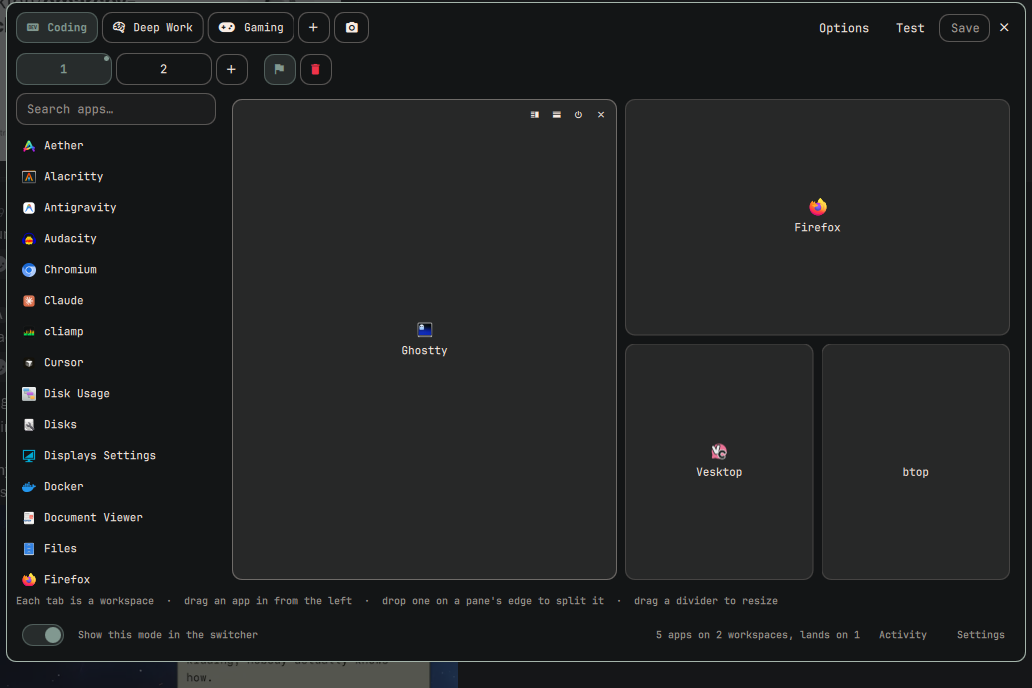
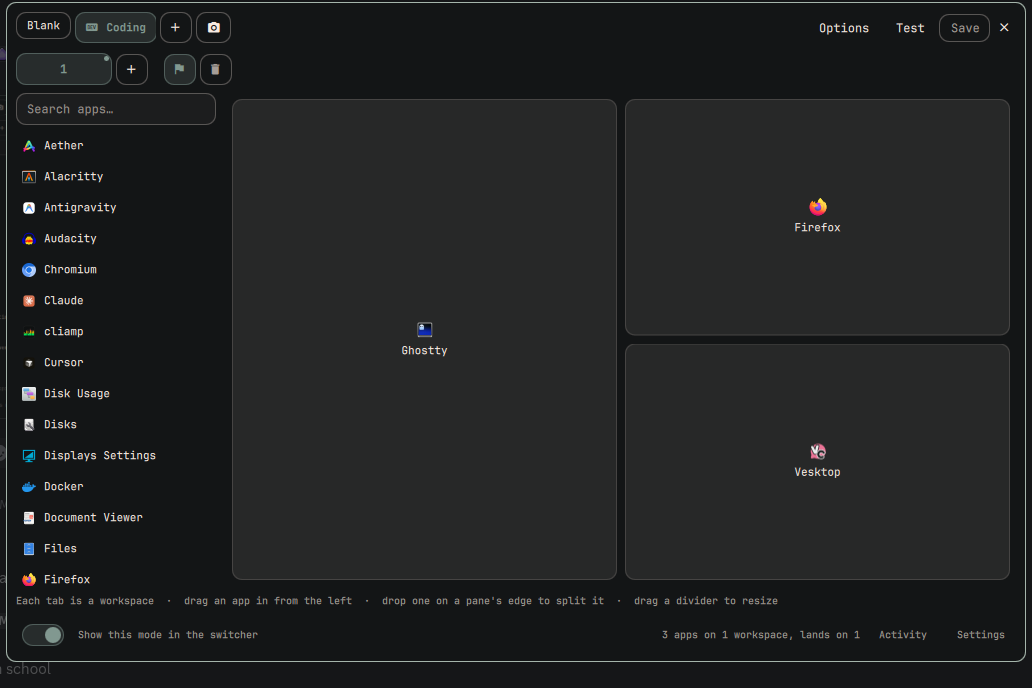
Let a divider survive being dragged
Resizing did nothing past the first pixel. A resize rewrites the tree on
every mouse move, paneRects hands back a fresh array each time, and a
Repeater told to model that array throws away its delegates and builds new
ones — so the divider you were holding was destroyed mid-drag, taking the
mouse grab with it. The Repeaters count the rectangles now and index them,
which only rebuilds when a pane is actually added or removed.

The same replacement was reaching onDraftChanged, which is not "a
different mode was selected" but "anything changed at all": every mouse
move of a resize deselected the pane you were working on and cancelled any
drag in progress. It watches the mode's id now.

Verified by driving setPaneRatio twelve times in the running shell: the
pane moves 385px to 216px, the selection survives all twelve, and the
delegate count does not change.

Also drops the power button from the pane controls. An application can
still be switched off in the config file, and its pane still greys out to
show it; a pane you do not want is a pane you close.

diff --git a/WorkspaceCanvas.qml b/WorkspaceCanvas.qml
@@ -43,6 +43,29 @@ Item {
   readonly property var tree: (tab >= 0 && tab < layouts.length) ? layouts[tab].tree : Model.paneLeaf("")
   readonly property var rects: Model.paneRects(tree, board.width, board.height, canvas.gap)
 
+  // The Repeaters below count these rather than iterate them. A resize
+  // rewrites the tree on every mouse move, which makes paneRects hand back a
+  // fresh array each time; a Repeater told to model that array throws away its
+  // delegates and builds new ones, and the divider you were dragging is
+  // destroyed mid-drag along with the grab it was holding. Counting keeps the
+  // delegates alive across a resize and only rebuilds when a pane is added or
+  // removed, which is the only time the count actually changes.
+  readonly property var voidRect: ({
+    path: "", app: "", direction: "row",
+    x: 0, y: 0, width: 0, height: 0,
+    spanX: 0, spanY: 0, spanWidth: 0, spanHeight: 0
+  })
+
+  function paneRect(i) {
+    var list = canvas.rects.panes
+    return (i >= 0 && i < list.length) ? list[i] : canvas.voidRect
+  }
+
+  function dividerRect(i) {
+    var list = canvas.rects.dividers
+    return (i >= 0 && i < list.length) ? list[i] : canvas.voidRect
+  }
+
   readonly property string landing: draft && draft.workspaces && draft.workspaces.target !== null
     && draft.workspaces.target !== undefined ? String(draft.workspaces.target) : ""
 
@@ -56,7 +79,16 @@ Item {
 
   // A different mode is a different set of workspaces; nothing about the last
   // one should still be selected, being renamed, or half dragged.
-  onDraftChanged: {
+  //
+  // Keyed on the mode's id, not on the draft object. The draft is replaced on
+  // every edit — a resize replaces it on every mouse move — so watching the
+  // object itself meant each of those counted as switching modes: the pane you
+  // had selected was deselected, and a drag in progress was cancelled under
+  // you the moment it changed anything.
+  readonly property string modeId: draft ? String(draft.id) : ""
+
+  onModeIdChanged: {
+    canvas.tab = 0
     canvas.renaming = -1
     canvas.selectedPath = ""
     canvas.dragCancel()
@@ -484,11 +516,12 @@ Item {
 
           // ------------------------------------------------------- panes
           Repeater {
-            model: canvas.rects.panes
+            model: canvas.rects.panes.length
 
             Rectangle {
-              required property var modelData
+              required property int index
 
+              readonly property var modelData: canvas.paneRect(index)
               readonly property var app: canvas.editor.applicationByUid(modelData.app)
               readonly property bool chosen: canvas.selectedPath === modelData.path
               readonly property bool targeted: canvas.dragging && canvas.overPane
@@ -680,12 +713,14 @@ Item {
 
           // ---------------------------------------------------- dividers
           Repeater {
-            model: canvas.rects.dividers
+            model: canvas.rects.dividers.length
 
             Item {
-              required property var modelData
+              required property int index
 
-              // The grab area is wider than the line, so a 4px divider is
+              readonly property var modelData: canvas.dividerRect(index)
+
+              // The grab area is wider than the line, so a thin divider is
               // still something a pointer can catch.
               readonly property int reach: Style.space(4)
 
@@ -730,10 +765,12 @@ Item {
 
           // ------------------------------------------------ pane controls
           Repeater {
-            model: canvas.rects.panes
+            model: canvas.rects.panes.length
 
             Row {
-              required property var modelData
+              required property int index
+
+              readonly property var modelData: canvas.paneRect(index)
 
               // Only on a pane with something in it: an empty pane has nothing
               // to split, nothing to skip, and closing it is what dropping an
@@ -765,19 +802,6 @@ Item {
                 foreground: canvas.foreground
                 fontFamily: canvas.fontFamily
                 onClicked: canvas.editor.splitPane(canvas.tab, modelData.path, "column")
-              }
-
-              PanelActionButton {
-                iconText: Model.Glyph.power
-                tooltipText: "Open this one with the mode, or skip it"
-                size: Style.space(20)
-                fontSize: Style.font.caption
-                foreground: canvas.foreground
-                fontFamily: canvas.fontFamily
-                onClicked: {
-                  var app = canvas.editor.applicationByUid(modelData.app)
-                  if (app) canvas.editor.setApplicationField(modelData.app, "enabled", app.enabled === false)
-                }
               }
 
               PanelActionButton {

diff --git a/README.md b/README.md
@@ -309,9 +309,13 @@ ghostty -e btop
 omarchy-launch-terminal
 ```
 
-A custom command is edited in the pane it will run in. Both kinds of
-application get a power button on the pane, which is handy for keeping an app
-in a mode without launching it every time.
+A custom command is edited in the pane it will run in: pick the pane and the
+name becomes the field.
+
+An application can also be switched off without being removed — `"enabled":
+false` in the config file. Its pane stays on the canvas, greyed, and the mode
+leaves it alone. There is no button for it in the editor; a pane you do not
+want is a pane you close.
 
 ### Icons
 
